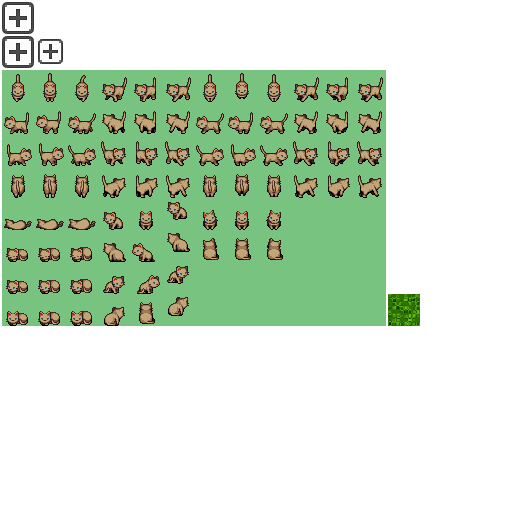
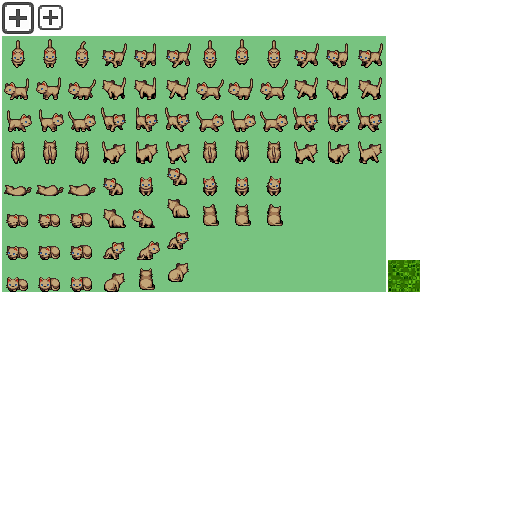
MouseHover listener added

Changed region(s): [[0.0, 0.0, 0.8438, 0.6562]]

diff --git a/src/Objects/Kitten/MVC/KittenView.java b/src/Objects/Kitten/MVC/KittenView.java
@@ -1,10 +1,12 @@
-package Objects.Kitten;
+package Objects.Kitten.MVC;
 
+import Listeners.KittenClickedListener;
 import Objects.Base.BaseDto.PositionDTO;
 import Objects.Base.BaseView.Nekomata;
 import DB.MySettings;
 import DB.NotificationsDictionary;
-import Entities.KittenDragListener;
+import Listeners.KittenDragListener;
+import Objects.Kitten.KittenAnimationDictionary;
 import box2dLight.PointLight;
 import box2dLight.RayHandler;
 import com.badlogic.gdx.graphics.Color;
@@ -17,6 +19,7 @@ public class KittenView extends Nekomata implements PropertyChangeListener
     private final KittenModel kittenModel;
     private final KittenController kittenController;
     private float angle;
+    private KittenAnimationDictionary animationDictionary;
 
     public KittenView(KittenController kittenController, KittenModel kittenModel, RayHandler rayHandler)
     {
@@ -25,7 +28,11 @@ public class KittenView extends Nekomata implements PropertyChangeListener
         this.kittenController = kittenController;
         this.kittenModel = kittenModel;
 
+        animationDictionary = new KittenAnimationDictionary();
+        animationDictionary.Create();
+
         addListener(new KittenDragListener(this));
+        addListener(new KittenClickedListener(this));
 
         setWidth(MySettings.KITTEN_HITBOX_WIDTH);
         setHeight(MySettings.KITTEN_HITBOX_HEIGHT);
@@ -74,10 +81,16 @@ public class KittenView extends Nekomata implements PropertyChangeListener
     @Override
     public void updateAnimation()
     {
-        if(kittenModel.getDynamicBody().getBody().getLinearVelocity().isZero())
+        boolean sitting = kittenModel.getDynamicBody().getBody().getLinearVelocity().isZero();
+        boolean selected = isSelected && sitting;
+
+        if(selected)
         {
-            //The kitten is sitting.
-            setAnimation(18, false);
+            animate("Selected");
+        }
+        else if (sitting)
+        {
+            animate("Sitting");
         }
         else
         {
@@ -85,34 +98,42 @@ public class KittenView extends Nekomata implements PropertyChangeListener
 
             if (goesEast())
             {
-                setAnimation(8, false);
-            } else if (goesNortheast())
+                animate("GoingEast");
+            }
+            else if (goesNortheast())
             {
-                setAnimation(13, false);
-            } else if (goesNorth())
+                animate("GoingNorthEast");
+            }
+            else if (goesNorth())
             {
-                setAnimation(12, false);
-            } else if (goesNorthwest())
+                animate("GoingNorth");
+            }
+            else if (goesNorthwest())
             {
-                setAnimation(5, false);
+                animate("GoingNorthWest");
             }
             else if (goesWest())
             {
-                setAnimation(4, false);
+                animate("GoingWest");
             }
             else if (goesSouthwest())
             {
-                setAnimation(1, false);
+                animate("GoingSouthWest");
             }
             else if (goesSouth())
             {
-                setAnimation(0, false);
+                animate("GoingSouth");
             }
             else if (goesSoutheast())
             {
-                setAnimation(9, false);
+                animate("GoingSouthEast");
             }
         }
+    }
+
+    private void animate(String name)
+    {
+        setAnimation(animationDictionary.getAnimationNumber(name), false);
     }
 
     private boolean goesEast()
@@ -158,5 +179,16 @@ public class KittenView extends Nekomata implements PropertyChangeListener
     public void dragged(Vector2 clickPosition)
     {
         kittenController.KittenDragged(clickPosition, kittenModel);
+    }
+
+    private boolean isSelected = false;
+    public void mousehover()
+    {
+        isSelected = true;
+    }
+
+    public void mouseleft()
+    {
+        isSelected = false;
     }
 }

diff --git a/src/Objects/World/MundoView.java b/src/Objects/World/MundoView.java
@@ -1,7 +1,7 @@
 package Objects.World;
 
 import Objects.Base.BaseView.Nekomata;
-import Background.Ground;
+import Objects.Ground.Grass;
 import DB.MySettings;
 import DB.NotificationsDictionary;
 import Objects.Base.MobDTO;
@@ -26,7 +26,7 @@ public class MundoView extends Stage implements PropertyChangeListener
     private final Box2DDebugRenderer worldRenderer;
 
     private final List<Nekomata> mobViewArray = new ArrayList<>();
-    private final Ground battlefield;
+    private final Grass battlefield;
 
     public MundoView(MundoController mundoController)
     {
@@ -42,7 +42,7 @@ public class MundoView extends Stage implements PropertyChangeListener
         this.rayHandler.setAmbientLight(0.2f, 0.2f, 0.2f, 0.5f);
         this.getViewport().setCamera(camera);
 
-        battlefield = new Ground();
+        battlefield = new Grass();
     }
 
     @Override

diff --git a/src/Objects/Kitten/KittenAnimationDictionary.java b/src/Objects/Kitten/KittenAnimationDictionary.java
@@ -1,0 +1,26 @@
+package Objects.Kitten;
+
+import java.util.HashMap;
+
+public class KittenAnimationDictionary {
+    private HashMap<String, Integer> animations = new HashMap<String,Integer>();
+
+    public void Create()
+    {
+        animations.put("Selected", 18);
+        animations.put("Sitting", 28);
+        animations.put("GoingEast", 8);
+        animations.put("GoingNorthEast", 13);
+        animations.put("GoingNorth", 12);
+        animations.put("GoingNorthWest", 5);
+        animations.put("GoingWest", 4);
+        animations.put("GoingSouthWest", 1);
+        animations.put("GoingSouth", 0);
+        animations.put("GoingSouthEast", 9);
+    }
+
+    public Integer getAnimationNumber(String name)
+    {
+        return animations.get(name);
+    }
+}

diff --git a/src/Listeners/KittenClickedListener.java b/src/Listeners/KittenClickedListener.java
@@ -1,0 +1,28 @@
+package Listeners;
+
+import Objects.Kitten.MVC.KittenView;
+import com.badlogic.gdx.scenes.scene2d.Actor;
+import com.badlogic.gdx.scenes.scene2d.InputEvent;
+import com.badlogic.gdx.scenes.scene2d.utils.ClickListener;
+
+public class KittenClickedListener extends ClickListener
+{
+    private final KittenView kittenView;
+
+    public KittenClickedListener(KittenView kittenView)
+    {
+        this.kittenView = kittenView;
+    }
+
+    @Override
+    public void enter(InputEvent event, float x, float y, int pointer, Actor fromActor)
+    {
+        kittenView.mousehover();
+    }
+
+    @Override
+    public void exit(InputEvent event, float x, float y, int pointer, Actor toActor)
+    {
+        kittenView.mouseleft();
+    }
+}

diff --git a/src/Objects/Ground/Grass.java b/src/Objects/Ground/Grass.java
@@ -1,4 +1,4 @@
-package Background;
+package Objects.Ground;
 
 import DB.MySettings;
 import com.badlogic.gdx.graphics.OrthographicCamera;
@@ -9,11 +9,11 @@ import com.badlogic.gdx.maps.tiled.TiledMapTileLayer.Cell;
 import com.badlogic.gdx.maps.tiled.renderers.OrthogonalTiledMapRenderer;
 import com.badlogic.gdx.maps.tiled.tiles.StaticTiledMapTile;
 
-public class Ground extends TiledMap
+public class Grass extends TiledMap
 {
     private final OrthogonalTiledMapRenderer mapRenderer;
 
-    public Ground()
+    public Grass()
     {
         this.mapRenderer = new OrthogonalTiledMapRenderer(this);
         this.createTileMap();

diff --git a/src/Listeners/KittenDragListener.java b/src/Listeners/KittenDragListener.java
@@ -1,6 +1,6 @@
-package Entities;
+package Listeners;
 
-import Objects.Kitten.KittenView;
+import Objects.Kitten.MVC.KittenView;
 import com.badlogic.gdx.math.Vector2;
 import com.badlogic.gdx.scenes.scene2d.InputEvent;
 import com.badlogic.gdx.scenes.scene2d.utils.DragListener;
@@ -19,7 +19,7 @@ public class KittenDragListener extends DragListener
     {
         return  true;
     }
-    
+
     @Override
     public void touchUp (InputEvent event, float x, float y, int pointer, int button)
     {

diff --git a/src/Objects/Kitten/MVC/KittenModel.java b/src/Objects/Kitten/MVC/KittenModel.java
@@ -1,9 +1,9 @@
-package Objects.Kitten;
+package Objects.Kitten.MVC;
 
 import Objects.Base.BaseDto.PositionDTO;
 import DB.MySettings;
 import DB.NotificationsDictionary;
-import Entities.ICollisionable;
+import Listeners.ICollisionable;
 import Objects.Base.BaseModel.AbstractModel;
 import Objects.Base.BaseModel.IMobModel;
 import PhysicalObjects.DynamicObject;

diff --git a/src/Objects/AddButton/AddButtonView.java b/src/Objects/AddButton/AddButtonView.java
@@ -2,7 +2,7 @@ package Objects.AddButton;
 
 import DB.MySettings;
 import DB.NotificationsDictionary;
-import Entities.AddButtonClickedListener;
+import Listeners.AddButtonClickedListener;
 import Objects.Base.BaseDto.PositionDTO;
 import Objects.Base.BaseView.Nekomata;
 import java.beans.PropertyChangeEvent;

diff --git a/src/Objects/World/MundoController.java b/src/Objects/World/MundoController.java
@@ -2,7 +2,7 @@ package Objects.World;
 
 import DB.MySettings;
 import Objects.AddButton.AddButtonController;
-import Objects.Kitten.KittenController;
+import Objects.Kitten.MVC.KittenController;
 import com.badlogic.gdx.Gdx;
 import com.badlogic.gdx.InputMultiplexer;
 import com.badlogic.gdx.graphics.GL20;

diff --git a/src/Objects/World/MundoModel.java b/src/Objects/World/MundoModel.java
@@ -1,7 +1,7 @@
 package Objects.World;
 
 import DB.NotificationsDictionary;
-import Entities.WaypointListener;
+import Listeners.WaypointListener;
 import Objects.Base.BaseModel.AbstractModel;
 import Objects.Base.BaseModel.IMobModel;
 import Objects.Base.MobDTO;

diff --git a/src/Objects/Kitten/MVC/KittenController.java b/src/Objects/Kitten/MVC/KittenController.java
@@ -1,5 +1,6 @@
-package Objects.Kitten;
+package Objects.Kitten.MVC;
 
+import Objects.Kitten.DTO.KittenDTOs;
 import Objects.World.MundoController;
 import com.badlogic.gdx.math.Vector2;
 import com.badlogic.gdx.physics.box2d.World;

diff --git a/src/Objects/Kitten/DTO/KittenDTOs.java b/src/Objects/Kitten/DTO/KittenDTOs.java
@@ -1,6 +1,8 @@
-package Objects.Kitten;
+package Objects.Kitten.DTO;
 
 import Objects.Base.MobDTO;
+import Objects.Kitten.MVC.KittenModel;
+import Objects.Kitten.MVC.KittenView;
 
 public class KittenDTOs
 {
